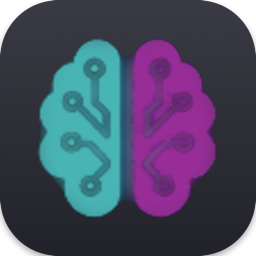
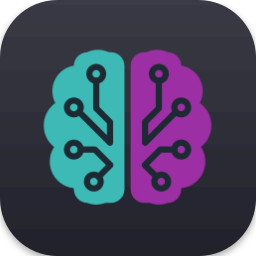
Заменил значок VibeIDE на новый, версия 0.2.2

diff --git a/src/brands.ts b/src/brands.ts
@@ -15,7 +15,7 @@ export const productNames: Record<Product, string> = {
 
 /**
  * App icons of the family, as they ship — a redrawn mark drifts from the real one:
- * VibeIDE's from resources/darwin/code.icns of its repository, cropped to the tile
+ * VibeIDE's from resources/branding/vibeide-macos-icon.svg of its repository, cropped to the tile
  * VibeIDEA's from vibeidea-customization/resources/vibeidea.svg of its repository
  * VibeMemory's from public/favicon.svg of vibememory.ru
  */
